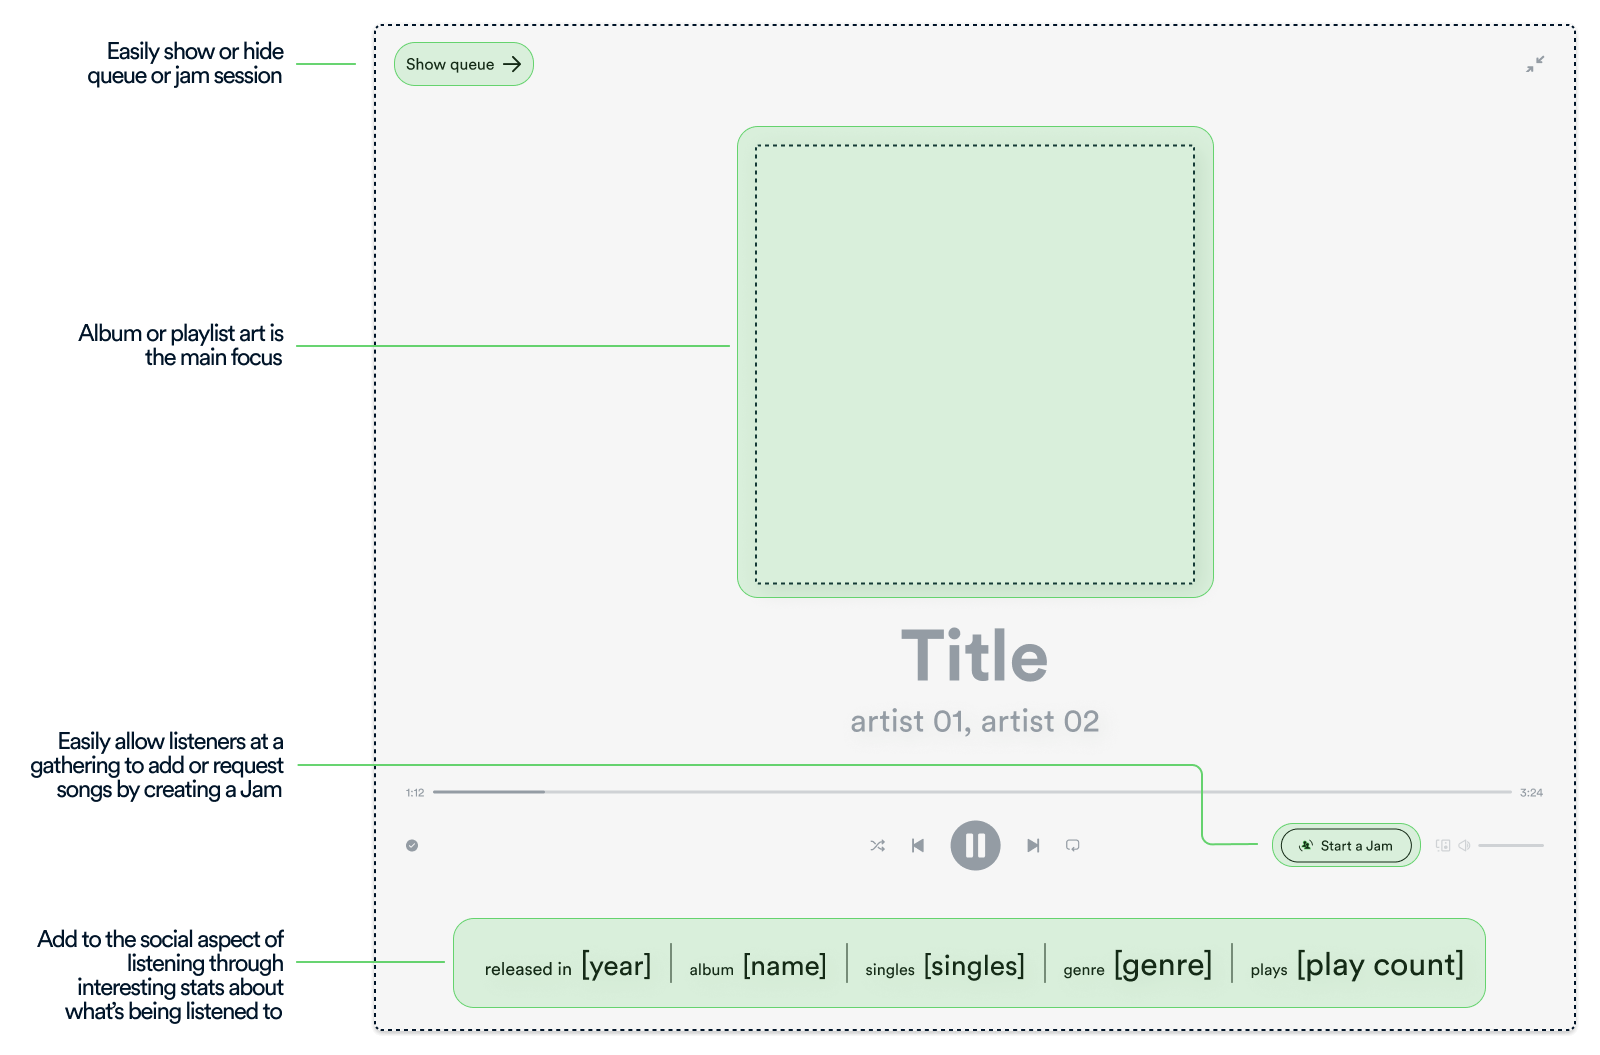
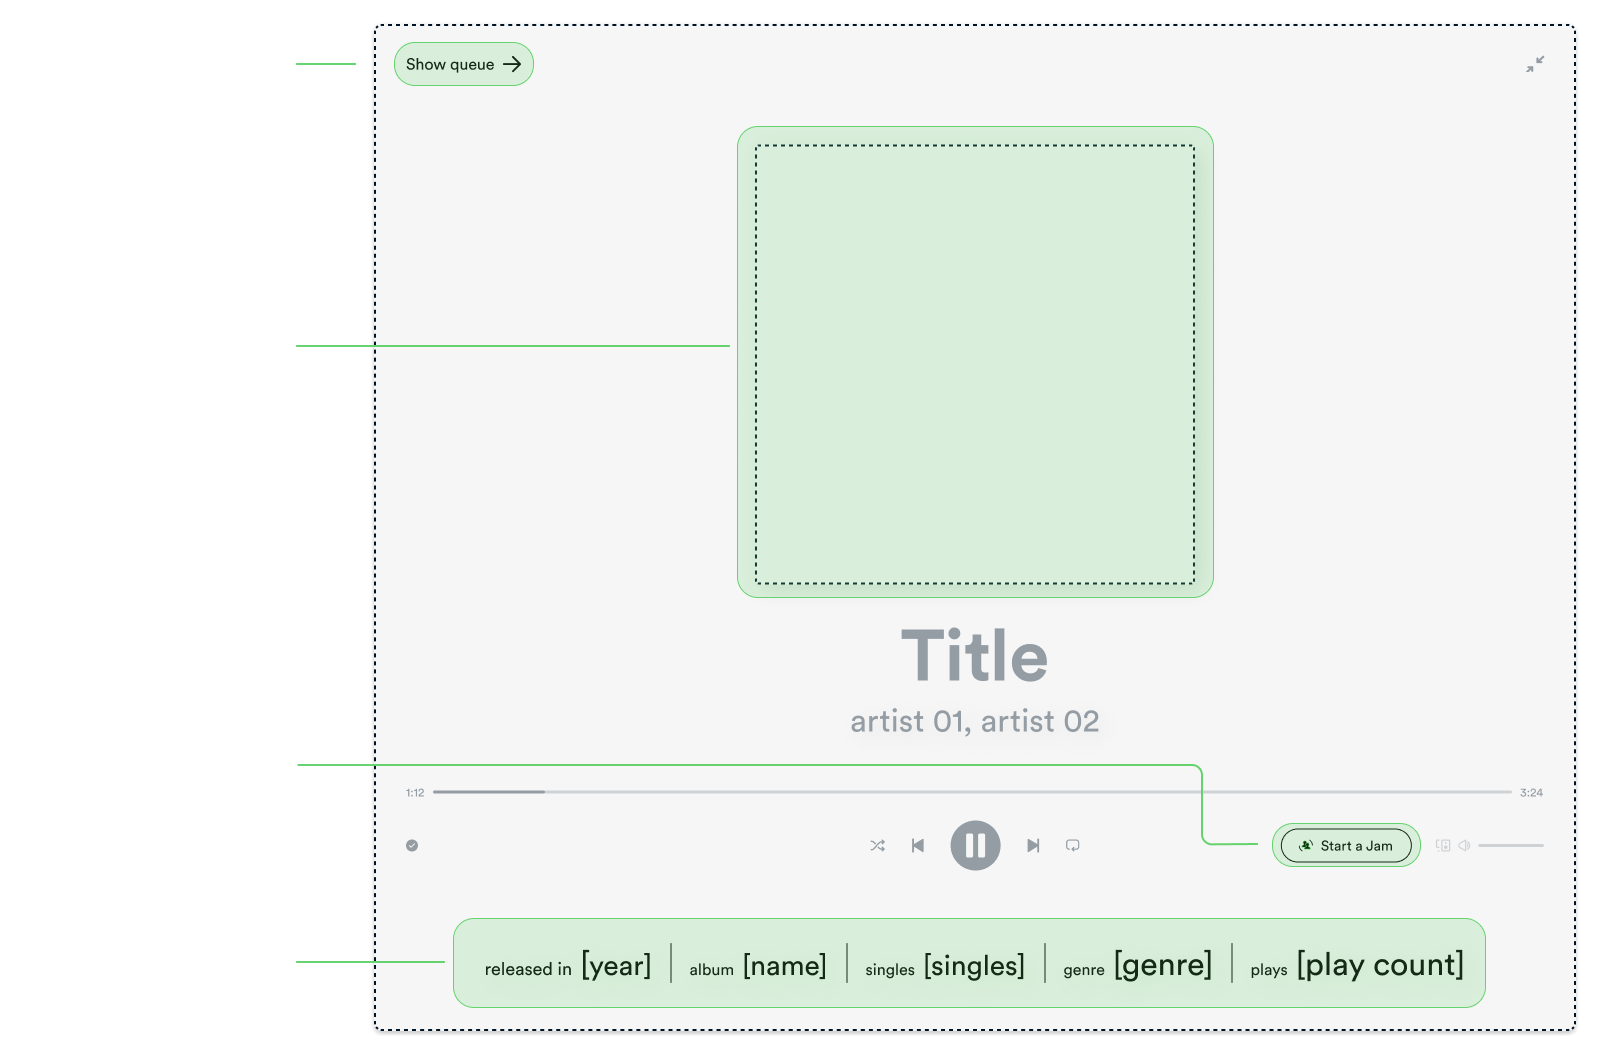
Thoughtify: annotation labels on the two fullscreen images are live HTML text
Claude-Session: https://claude.ai/code/session_01YCi21RigoaphgUyUiuX5f9

diff --git a/spotifyDreams.html b/spotifyDreams.html
@@ -6,7 +6,7 @@
     <meta http-equiv="X-UA-Compatible" content="IE=edge" />
     <meta name="viewport" content="width=device-width, initial-scale=1.0" />
 
-    <link rel="stylesheet" href="css/spotifyDreams.css?v=138" />
+    <link rel="stylesheet" href="css/spotifyDreams.css?v=139" />
     <link rel="stylesheet" href="css/hostgrotesk.css" />
     <link rel="stylesheet" href="css/satoshi.css">
 
@@ -344,12 +344,24 @@
         </div>
 
 
-        <div class="imageBox">
-            <img src="assets/projectAssets/spotifyAssets/spotify_img08.png?v=2" alt="">
+                <div class="imageBox">
+            <div class="annoBox annoL">
+                <img src="assets/projectAssets/spotifyAssets/spotify_img08.png?v=3" alt="">
+                <p class="anno" style="top:3.89%;right:82.31%">Easily show or hide<br>queue or jam session</p>
+                <p class="anno" style="top:30.62%;right:82.31%">Album or playlist art is<br>the main focus</p>
+                <p class="anno" style="top:69.29%;right:82.31%">Easily allow listeners at a<br>gathering to add or request<br>songs by creating a Jam</p>
+                <p class="anno" style="top:88.15%;right:82.31%">Add to the social aspect of<br>listening through<br>interesting stats about<br>what’s being listened to</p>
+            </div>
         </div>
 
-        <div class="imageBox">
-            <img src="assets/projectAssets/spotifyAssets/spotify_img09.png?v=2" alt="">
+                <div class="imageBox">
+            <div class="annoBox annoR">
+                <img src="assets/projectAssets/spotifyAssets/spotify_img09.png?v=3" alt="">
+                <p class="anno" style="top:15.58%;left:70.44%">Easily join a Jam using<br>Spotify Code</p>
+                <p class="anno" style="top:48.43%;left:69.38%">Quickly see who’s Jamming,<br>and who’s playing what</p>
+                <p class="anno" style="top:68.76%;left:70.44%">Queue playlists,<br>recommendations, or<br>similar tracks without ever<br>leaving fullscreen view.</p>
+                <p class="anno" style="top:81.15%;left:70.5%">Minimizing distractions</p>
+            </div>
         </div>
 
         <div class="textSection">

diff --git a/css/spotifyDreams.css b/css/spotifyDreams.css
@@ -806,4 +806,11 @@ html.inFrame .sketchText h2 { font-size: clamp(16px, 2.56vw, 48px); line-height:
 html.inFrame .viewRow > .gifCol > .imageBox img { width: 100%; max-height: none; }
 
 /* the two annotated fullscreen images (Jam queue / Jam sidebar): 0.6x */
-html.inFrame .imageBox img[src*="spotify_img08"], html.inFrame .imageBox img[src*="spotify_img09"] { width: 60%; height: auto; display: block; margin-left: auto; margin-right: auto; }
+
+
+/* annotated fullscreen images: labels are live text laid over the artwork, scaling with it (0.6x) */
+html.inFrame .annoBox { position: relative; width: 60%; margin: 0 auto; container-type: inline-size; }
+html.inFrame .annoBox > img { width: 100%; height: auto; display: block; margin: 0; }
+html.inFrame .annoBox .anno { position: absolute; margin: 0; white-space: nowrap; font-family: "Host Grotesk", "Satoshi", system-ui, sans-serif; font-weight: 400; color: #001428; letter-spacing: -0.04em; }
+html.inFrame .annoL .anno { text-align: right; font-size: 1.46cqw; line-height: 1.5cqw; }
+html.inFrame .annoR .anno { text-align: left; font-size: 2.3cqw; line-height: 2.38cqw; }
